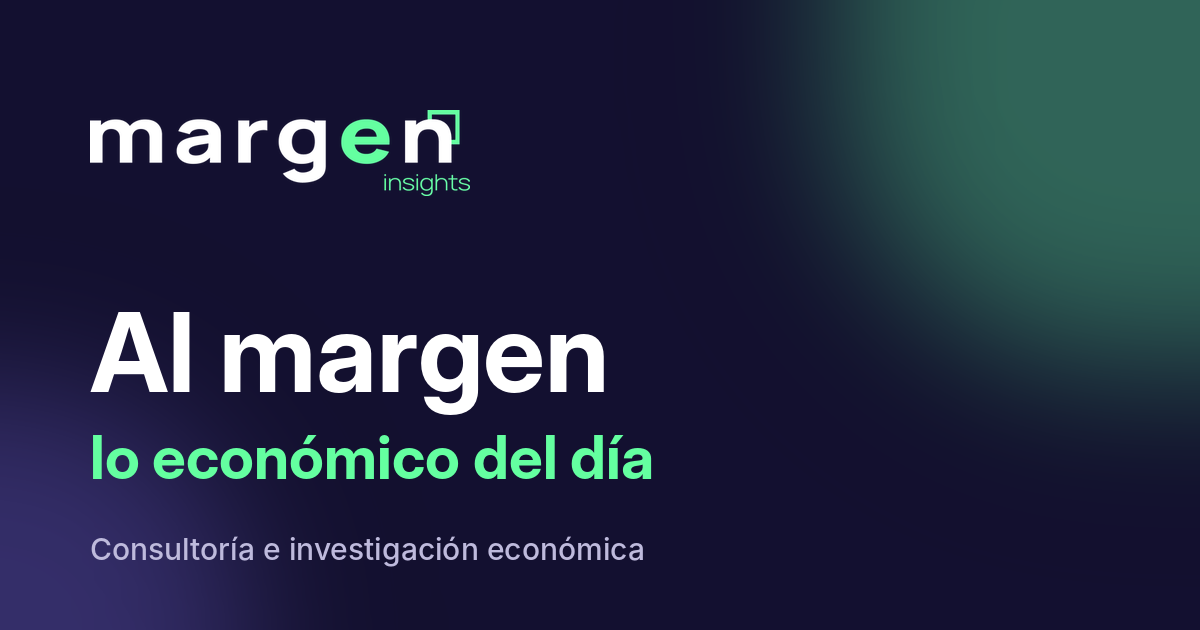
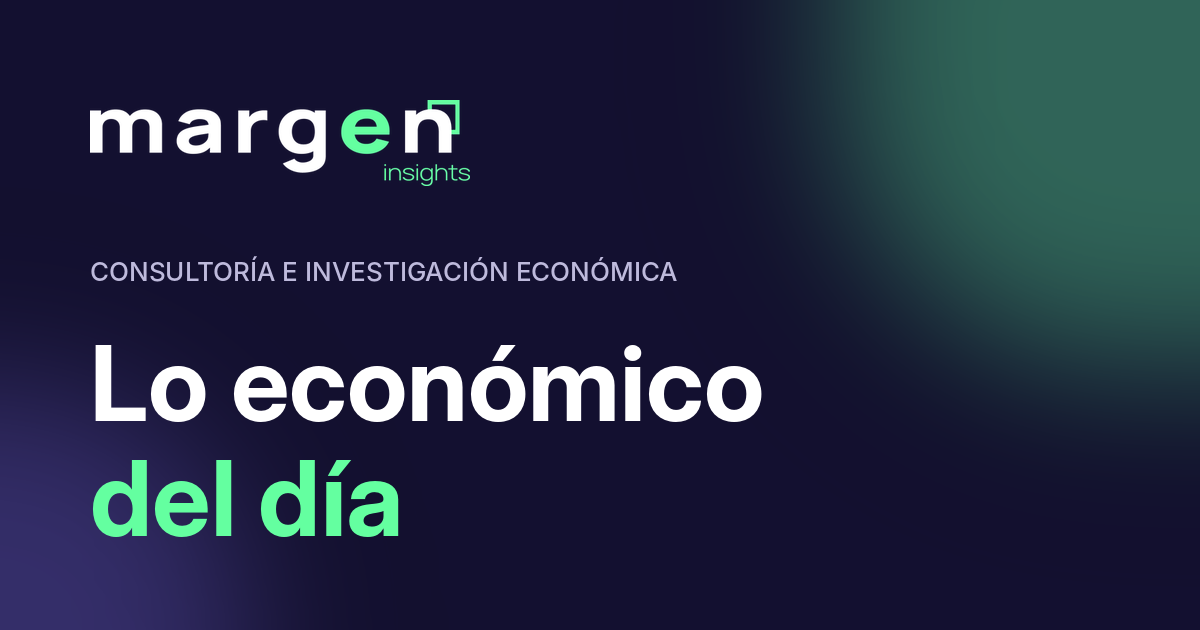
Vista previa al compartir: Lo económico del día
Claude-Session: https://claude.ai/code/session_0199FCPiS5V3GXttvqM5eSa3

Changed region(s): [[0.0617, 0.4825, 0.6475, 0.9048], [0.0617, 0.1508, 0.4008, 0.3016], [0.0617, 0.3921, 0.5858, 0.4524]]

diff --git a/index.html b/index.html
@@ -9,18 +9,18 @@
 <link rel="icon" type="image/png" sizes="32x32" href="favicon-32.png?v=2">
 <link rel="apple-touch-icon" href="apple-touch-icon.png?v=2">
 <link rel="manifest" href="manifest.webmanifest">
-<meta name="description" content="Decisiones y noticias económicas de Colombia, con fuentes. Por Margen Insights.">
+<meta name="description" content="La información económica del país a la mano, sin buscar fuente por fuente.">
 <meta property="og:type" content="website">
 <meta property="og:site_name" content="Margen Insights">
-<meta property="og:title" content="Al margen · lo económico del día">
-<meta property="og:description" content="Decisiones y noticias económicas de Colombia, con fuentes.">
+<meta property="og:title" content="Lo económico del día · Margen Insights">
+<meta property="og:description" content="La información económica del país a la mano, sin buscar fuente por fuente.">
 <meta property="og:url" content="https://economiahoy.margeninsights.com/">
-<meta property="og:image" content="https://economiahoy.margeninsights.com/og.png?v=2">
+<meta property="og:image" content="https://economiahoy.margeninsights.com/og.png?v=3">
 <meta property="og:image:width" content="1200">
 <meta property="og:image:height" content="630">
 <meta property="og:locale" content="es_CO">
 <meta name="twitter:card" content="summary_large_image">
-<title>Al margen · lo económico del día · Margen Insights</title>
+<title>Lo económico del día · Margen Insights</title>
 <link rel="preconnect" href="https://fonts.googleapis.com">
 <link rel="stylesheet" href="https://fonts.googleapis.com/css2?family=Montserrat:wght@600;700;800&family=Nunito+Sans:opsz,wght@6..12,400;6..12,600;6..12,700&display=swap">
 <style>
@@ -204,7 +204,7 @@ li.es-importante{box-shadow:inset 4px 0 0 var(--red),var(--shadow)}
 </div>
   <section class="cta">
     <p>En Margen construimos información para que tu organización siga, cada día, las variables económicas que la afectan.</p>
-    <a class="cta-btn" href="https://wa.me/573178863532?text=Hola%2C%20vi%20Al%20margen%20de%20Margen%20Insights%20y%20me%20interesa%20una%20herramienta%20as%C3%AD%20para%20mi%20organizaci%C3%B3n." target="_blank" rel="noopener"><svg class="ico" viewBox="0 0 24 24" aria-hidden="true"><path d="M20 12a8 8 0 0 1-11.8 7L4 20l1.1-4A8 8 0 1 1 20 12z"/><path d="M9 9.5c0 3 2.5 5.5 5.5 5.5l1-1.5-2-1-1 .8a4 4 0 0 1-2-2l.8-1-1-2z"/></svg><span>Hablemos</span></a>
+    <a class="cta-btn" href="https://wa.me/573178863532?text=Hola%2C%20vi%20Lo%20econ%C3%B3mico%20del%20d%C3%ADa%20de%20Margen%20Insights%20y%20me%20interesa%20una%20herramienta%20as%C3%AD%20para%20mi%20organizaci%C3%B3n." target="_blank" rel="noopener"><svg class="ico" viewBox="0 0 24 24" aria-hidden="true"><path d="M20 12a8 8 0 0 1-11.8 7L4 20l1.1-4A8 8 0 1 1 20 12z"/><path d="M9 9.5c0 3 2.5 5.5 5.5 5.5l1-1.5-2-1-1 .8a4 4 0 0 1-2-2l.8-1-1-2z"/></svg><span>Hablemos</span></a>
   </section>
   <p class="ia">Este resumen se elabora con ayuda de inteligencia artificial a partir de las fuentes enlazadas.</p>
   <div class="redes"><a class="ig" href="https://www.instagram.com/margen.insights/" target="_blank" rel="noopener"><svg class="ico" viewBox="0 0 24 24" aria-hidden="true"><rect x="3" y="3" width="18" height="18" rx="5"/><circle cx="12" cy="12" r="4"/><path d="M17.5 6.5h.01"/></svg><span>@margen.insights</span></a><a class="ig" href="https://www.instagram.com/andres_trigosr/" target="_blank" rel="noopener"><svg class="ico" viewBox="0 0 24 24" aria-hidden="true"><rect x="3" y="3" width="18" height="18" rx="5"/><circle cx="12" cy="12" r="4"/><path d="M17.5 6.5h.01"/></svg><span>@andres_trigosr</span></a></div>
@@ -329,13 +329,13 @@ li.es-importante{box-shadow:inset 4px 0 0 var(--red),var(--shadow)}
       var t=li.querySelector(".titular"), p=li.querySelector("p");
       var base=t?t.textContent.trim():(p?p.textContent.trim().slice(0,160)+"…":"");
       var a=document.createElement("a"); a.className="compartir"; a.target="_blank"; a.rel="noopener";
-      a.href=linkWA(base+"\n\nAl margen · lo económico del día · Margen Insights\n"+URL_PAG);
+      a.href=linkWA(base+"\n\nLo económico del día · Margen Insights\n"+URL_PAG);
       a.innerHTML=WA+"<span>Compartir</span>"; li.appendChild(a);
     });
     var f=document.querySelector("#contenido .fecha");
     if(f && !document.querySelector(".compartir-todo")){
       var g=document.createElement("a"); g.className="compartir-todo"; g.target="_blank"; g.rel="noopener";
-      g.href=linkWA("Al margen · lo económico del día · Margen Insights\n"+URL_PAG);
+      g.href=linkWA("Lo económico del día · Margen Insights\n"+URL_PAG);
       g.innerHTML=WA+"<span>Compartir resumen</span>"; f.after(g);
     }
   }
